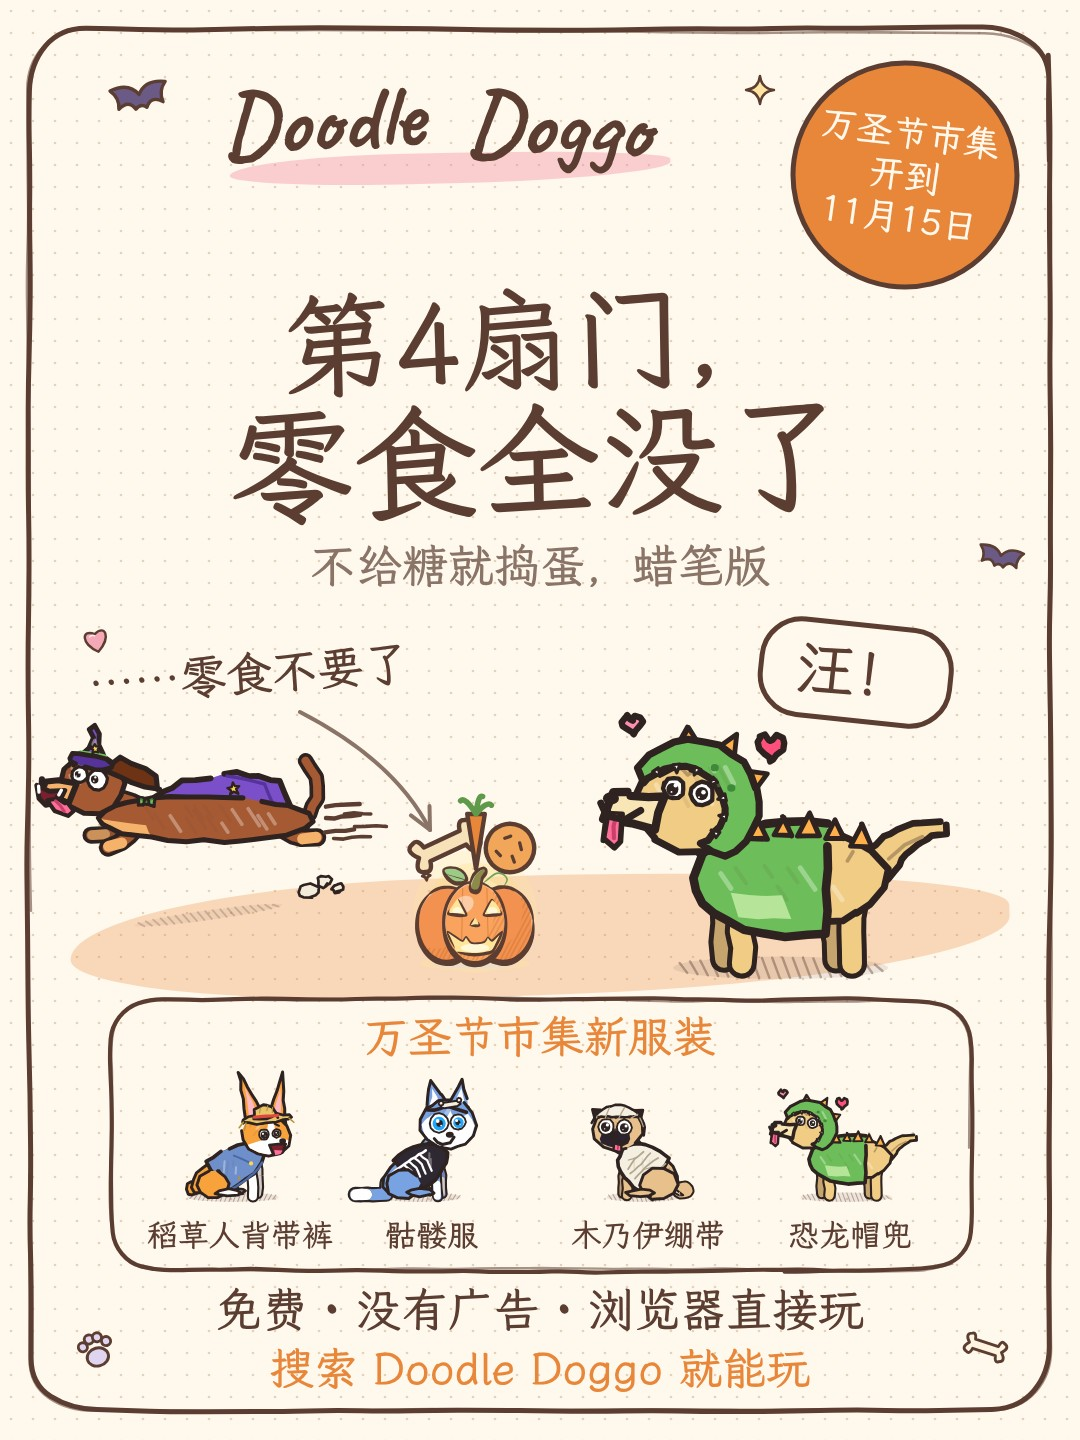
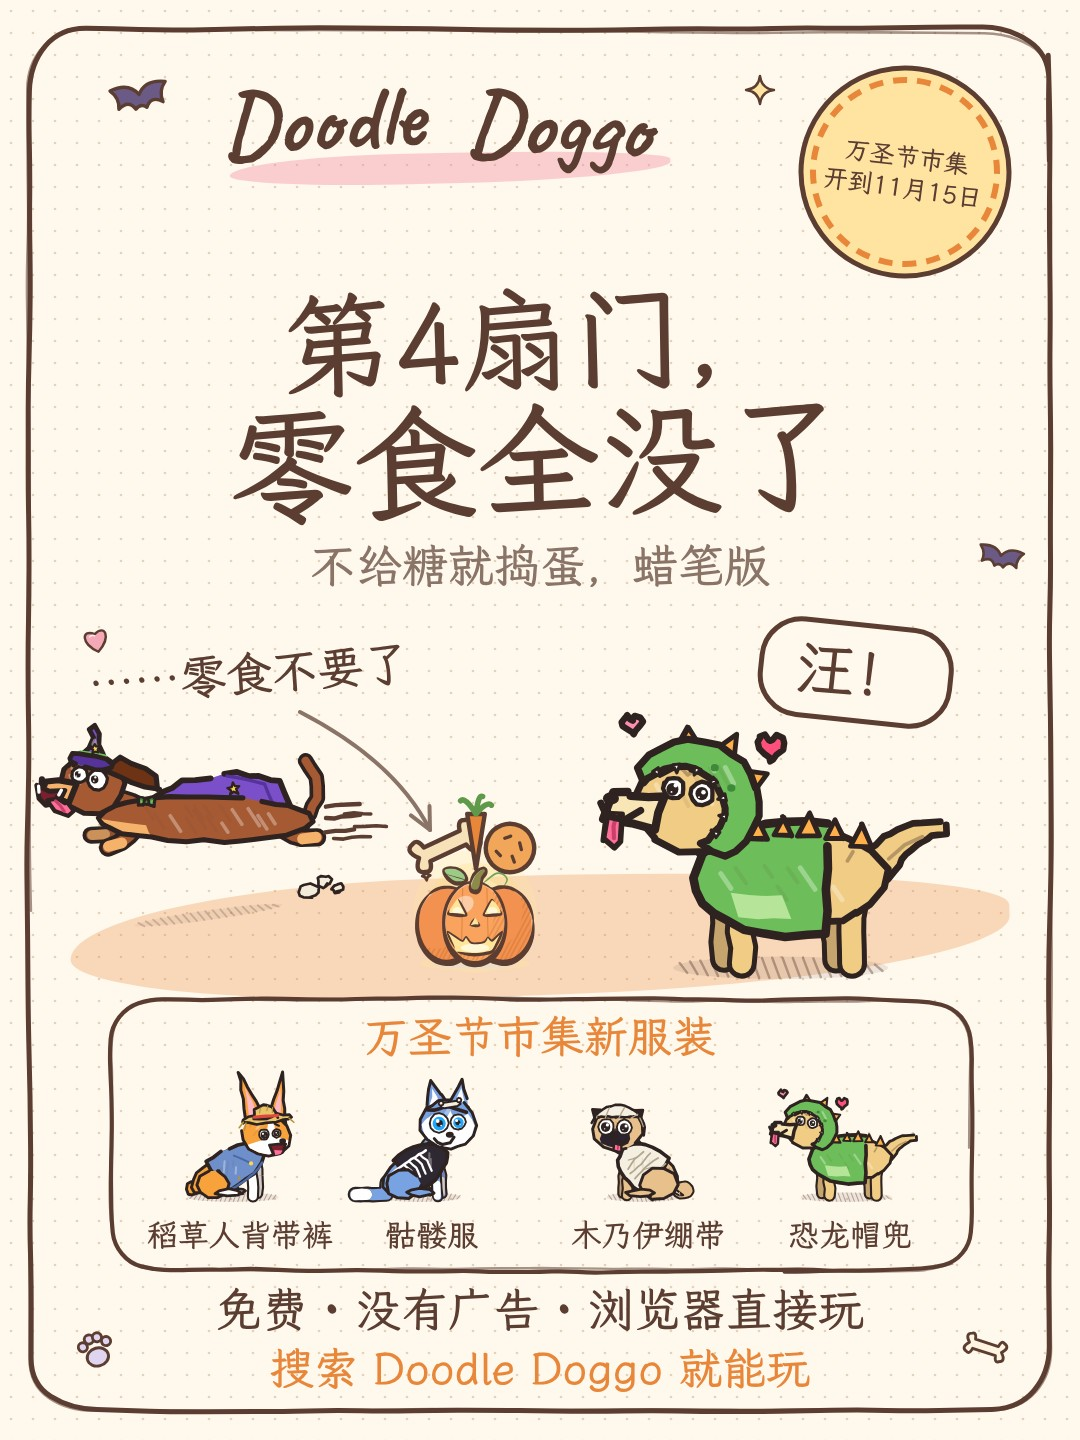
RedNote Reel covers: smaller corner stickers, dark words on pale fill (owner, 30 Oct 2026)
Claude-Session: https://claude.ai/code/session_01D6KLY3kmkonSJgdVfRqFo7

Changed region(s): [[0.7333, 0.0312, 0.9472, 0.2188]]

diff --git a/brand/instagram/launch/make_rednote_posters.js b/brand/instagram/launch/make_rednote_posters.js
@@ -23,7 +23,8 @@ module.exports = async function ({ render, helpers: h }) {
   const art = (s, x, y, w, hh) => { const vb = /viewBox="([^"]+)"/.exec(s)[1]; return `<svg x="${x}" y="${y}" width="${w}" height="${hh || w}" viewBox="${vb}" overflow="visible">${inner(s)}</svg>`; };
   const item = (name, x, y, w) => art(PA.item(name), x, y, w);
   // a round sticker with a few short lines, centred
-  const sticker = (cx, cy, r, col, lines, size, rot) => `<g transform="rotate(${rot} ${cx} ${cy})"><circle cx="${cx}" cy="${cy}" r="${r}" fill="${col}" stroke="${INK}" stroke-width="5"/>${lines.map((s, i) => zh(s, cx, f1(cy + size * 0.36 + (i - (lines.length - 1) / 2) * size * 1.18), size, { fill: '#FFF8EC' })).join('')}</g>`;
+  // pale fill, a coloured ring and dark ink words (owner, 30 Oct 2026: white words on colour were too big and hard to read)
+  const sticker = (cx, cy, r, fill, ring, lines, size, rot) => `<g transform="rotate(${rot} ${cx} ${cy})"><circle cx="${cx}" cy="${cy}" r="${r}" fill="${fill}" stroke="${INK}" stroke-width="5"/><circle cx="${cx}" cy="${cy}" r="${r - 12}" fill="none" stroke="${ring}" stroke-width="6" stroke-dasharray="14 10"/>${lines.map((s, i) => zh(s, cx, f1(cy + size * 0.36 + (i - (lines.length - 1) / 2) * size * 1.25), size)).join('')}</g>`;
   const footer = (line) => zh(line, 540, 1326, 46) + zh('搜索 Doodle Doggo 就能玩', 540, 1384, 44, { fill: ORANGE })
     + doodle('paw', 96, 1350, 1.2, -15) + doodle('bone', 984, 1352, 1.2, 18);
 
@@ -37,7 +38,7 @@ module.exports = async function ({ render, helpers: h }) {
   const COSTUMES = [['corgi', 'Scarecrow Overalls', 'scarecrow_overalls'], ['husky', 'Skeleton Suit', 'skeleton_suit'], ['pug', 'Mummy Wraps', 'mummy_wraps'], ['lab', 'Dinosaur Hood', 'dinosaur_hood']];
   const trick = paper(W, H) + frame(W, H, 52)
     + wordmark(450, 150, 90) + doodle('bat', 140, 100, 1.4, -10) + doodle('spark', 760, 90, 1)
-    + sticker(905, 175, 112, ORANGE, [t('fm.m_halloween'), '开到', '11月15日'], 36, 8)
+    + sticker(905, 172, 104, '#FFE3A1', ORANGE, [t('fm.m_halloween'), '开到11月15日'], 25, 8)
     + zh('第4扇门，', 540, 380, 112, { rot: -1.5 }) + zh('零食全没了', 540, 505, 124, { rot: -1.5 })
     + zh('不给糖就捣蛋，蜡笔版', 540, 582, 46, { fill: MUTED, w: 400 })
     // the punchline: Butter says WOOF, Noodle runs, the treats stay in the bucket
@@ -64,7 +65,7 @@ module.exports = async function ({ render, helpers: h }) {
   const row = (name, label, x, y, size) => item(name, x, y - 46, 84) + zh(label, x + 100, y + 14, size, { anchor: 'start', w: 600 });
   const safe = paper(W, H) + frame(W, H, 71)
     + wordmark(450, 150, 90) + doodle('heart', 140, 96, 1.1, -12) + doodle('spark', 760, 90, 1)
-    + sticker(905, 175, 112, PINK, ['先收藏！', '给狗狗', '备用'], 40, -8)
+    + sticker(905, 172, 104, '#FCE1E7', PINK, ['先收藏！', '给狗狗备用'], 28, -8)
     + zh('狗狗不能吃的', 540, 360, 104, { rot: -1.5 }) + zh(`<tspan fill="${RED}">7</tspan>种食物`, 540, 488, 130, { rot: -1.5 })
     + zh('每一条都是游戏里的狗狗安全小知识', 540, 556, 42, { fill: MUTED, w: 400 })
     // never for dogs: two columns

diff --git a/docs/marketing/TRICK_REEL.md b/docs/marketing/TRICK_REEL.md
@@ -62,7 +62,7 @@ Noodle knocked on 4 doors. door 4 cost him every treat 🎃 we've got 10 new dog
 
 ## RedNote / 小红书 (Simplified Chinese, no link)
 
-Post `doodle-doggo-trick-or-treat-rednote.mp4` with `trick-cover-rednote.jpg`. Poster (3:4, 1080 x 1440): `brand/rednote/rednote-02-trick.jpg`, the video note's cover in RedNote's 3:4 feed, or an image note with the same text (`make_rednote_posters.js`). On the video: "第4扇门，/ 零食全没了" (door 4, every treat gone) with "不给糖就捣蛋，蜡笔版" (trick or treat, crayon edition) small underneath, "咚咚咚" (knock knock), "不给糖就捣蛋！", the costumes' game names (稻草人背带裤, 骷髅服, 木乃伊绷带, 恐龙帽兜) under "万圣节新服装" (new Halloween costume), "……零食不要了" (...forget the treats), and on the ending page the game's own line "不给糖就捣蛋？要糖。永远要糖。" (trick or treat? treat. always treat.), "搜索 Doodle Doggo 就能玩", "万圣节市集开到11月15日".
+Post `doodle-doggo-trick-or-treat-rednote.mp4` with `trick-cover-rednote.jpg`. Reel cover for RedNote (owner, 30 Oct 2026; 3:4, 1080 x 1440): `brand/rednote/rednote-02-trick.jpg`. Upload it as the video's custom cover, so the 3:4 feed shows the whole thing (`make_rednote_posters.js`). On the video: "第4扇门，/ 零食全没了" (door 4, every treat gone) with "不给糖就捣蛋，蜡笔版" (trick or treat, crayon edition) small underneath, "咚咚咚" (knock knock), "不给糖就捣蛋！", the costumes' game names (稻草人背带裤, 骷髅服, 木乃伊绷带, 恐龙帽兜) under "万圣节新服装" (new Halloween costume), "……零食不要了" (...forget the treats), and on the ending page the game's own line "不给糖就捣蛋？要糖。永远要糖。" (trick or treat? treat. always treat.), "搜索 Doodle Doggo 就能玩", "万圣节市集开到11月15日".
 
 标题 (title, 17 characters; 20 max):
 ```

diff --git a/docs/marketing/SAFE_REEL.md b/docs/marketing/SAFE_REEL.md
@@ -58,7 +58,7 @@ stop sharing these 3 snacks with your dog 🍇🍫 grapes, chocolate and sugar-f
 
 ## RedNote / 小红书 (Simplified Chinese, no link)
 
-Post `doodle-doggo-is-this-safe-rednote.mp4` with `safe-cover-rednote.jpg`. Poster (3:4, 1080 x 1440): `brand/rednote/rednote-03-safe.jpg`, the video note's cover in RedNote's 3:4 feed, or an image note with the same text (`make_rednote_posters.js`). On the video: "这个，/ 狗狗能吃吗？" (is this OK for dogs to eat?), the game's own names, lessons and swaps, "狗狗不能吃" (not for dogs), "换成这个" (swap for this), and the page "收藏起来，给狗狗备用" (save this for your dog) with "不小心吃了？马上联系兽医。" (ate something by accident? call a vet right away).
+Post `doodle-doggo-is-this-safe-rednote.mp4` with `safe-cover-rednote.jpg`. Reel cover for RedNote (owner, 30 Oct 2026; 3:4, 1080 x 1440): `brand/rednote/rednote-03-safe.jpg`. Upload it as the video's custom cover, so the 3:4 feed shows the whole thing (`make_rednote_posters.js`). On the video: "这个，/ 狗狗能吃吗？" (is this OK for dogs to eat?), the game's own names, lessons and swaps, "狗狗不能吃" (not for dogs), "换成这个" (swap for this), and the page "收藏起来，给狗狗备用" (save this for your dog) with "不小心吃了？马上联系兽医。" (ate something by accident? call a vet right away).
 
 标题 (title, 16 characters; 20 max):
 ```
